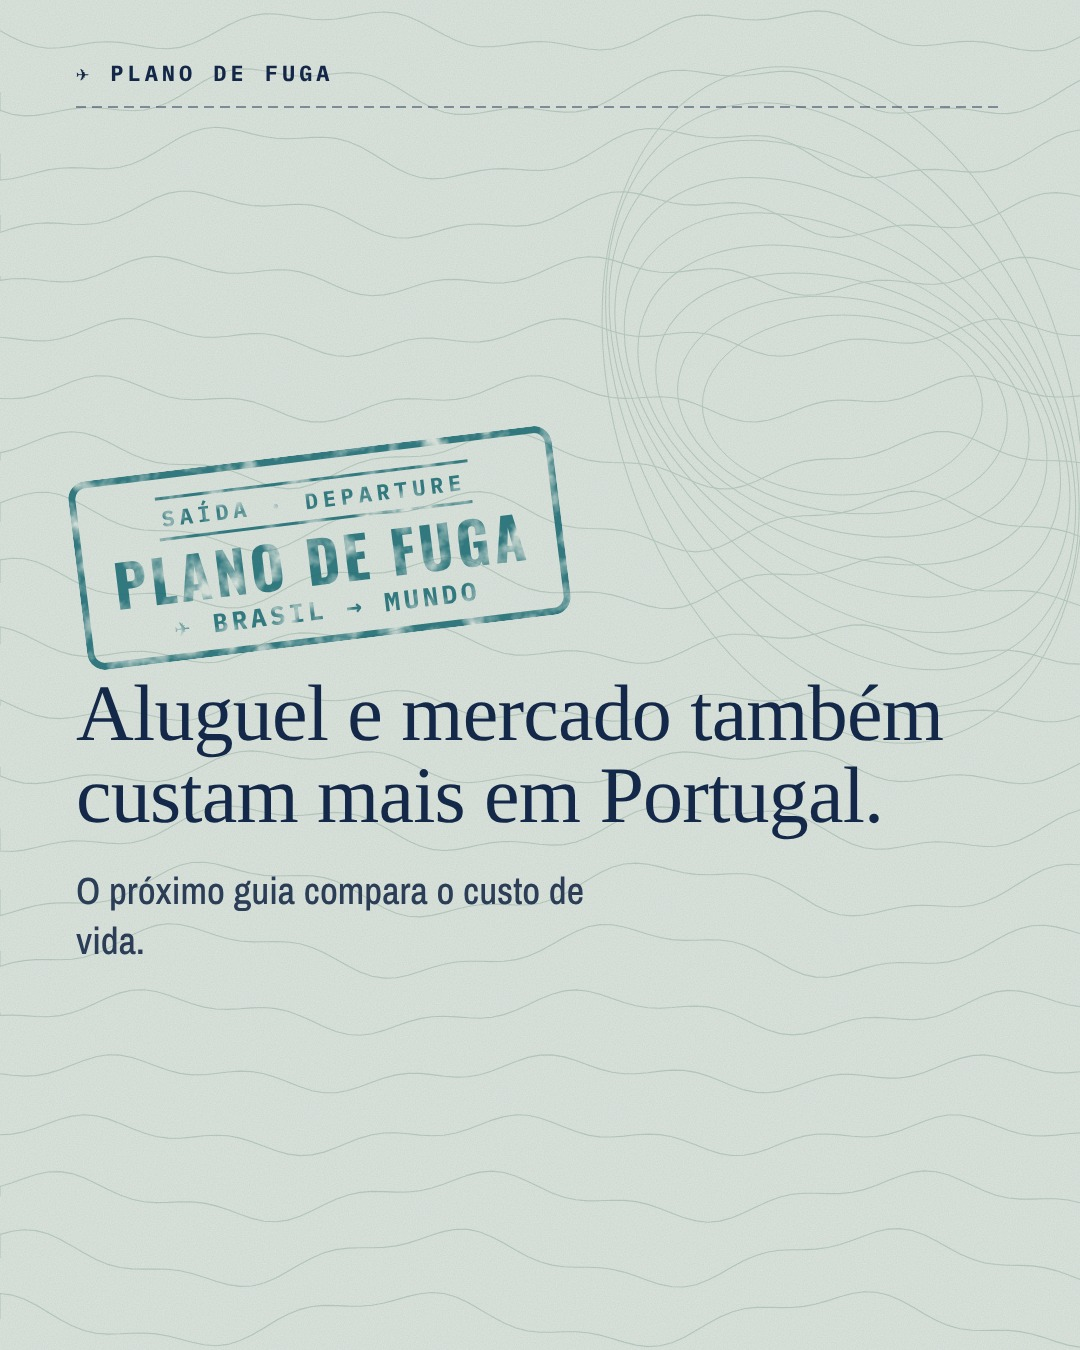
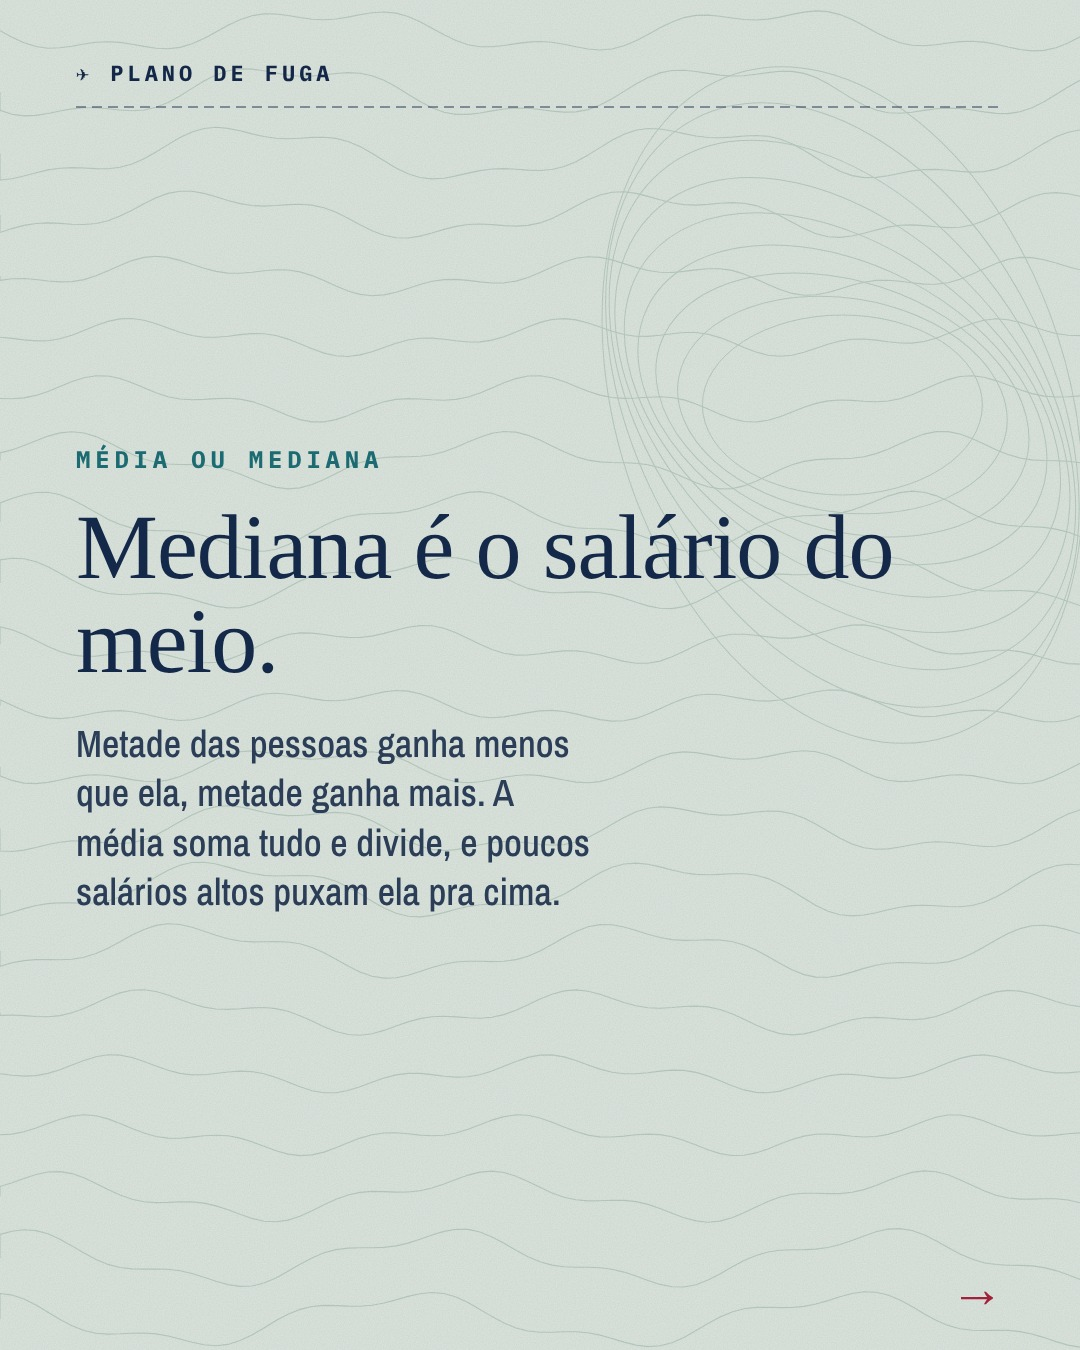
g-salario-minimo: média e mediana (rascunho, fora do manifest)
Claude-Session: https://claude.ai/code/session_01Pt3JXtGXq32R2QMqT7uFX3

Changed region(s): [[0.0611, 0.3111, 0.8861, 0.7156], [0.8861, 0.9333, 0.9167, 0.9644]]

diff --git a/content/content.py b/content/content.py
@@ -322,6 +322,9 @@ GUIA.append({"id": "g-salario-minimo", "publish_at": "2099-01-01T00:00:00Z", "st
   {"t": "page", "lab": "EM PORTUGAL", "h": "€ 920 por mês.", "s": "Valor de 2026 no continente. São 14 salários no ano.", "src": "Diário da República, 29/12/2025"},
   {"t": "page", "lab": "EM REAIS", "h": "R$ 5.180 por mês.", "s": "€ 920 × R$ 5,63, o euro de 20/10/2026. Dá 3,2 vezes o mínimo brasileiro.", "src": "Banco Central (PTAX)"},
   {"t": "page", "lab": "NO ANO", "h": "R$ 21.073 no Brasil. R$ 72.521 em Portugal.", "s": "13 e 14 salários, no câmbio de 20/10/2026."},
+  {"t": "page", "lab": "MÉDIA OU MEDIANA", "h": "Mediana é o salário do meio.", "s": "Metade das pessoas ganha menos que ela, metade ganha mais. A média soma tudo e divide, e poucos salários altos puxam ela pra cima."},
+  {"t": "page", "lab": "SALÁRIO NO BRASIL", "h": "Média: R$ 3.738 por mês.", "s": "O IBGE não publica a mediana. Mas 69% dos trabalhadores ganham até R$ 3.242, então a mediana fica abaixo disso.", "src": "IBGE, 2º tri 2026 · 4intelligence/PNAD"},
+  {"t": "page", "lab": "SALÁRIO EM PORTUGAL", "h": "Média: € 1.436 por mês.", "s": "São R$ 8.085, sem os subsídios de férias e Natal. A mediana mais recente do INE é de 2021: € 996 no setor privado.", "src": "INE, junho de 2026 e 2021"},
   {"t": "cta", "h": "Aluguel e mercado também custam mais em Portugal.", "s": "O próximo guia compara o custo de vida."},
  ],
  "caption": ""})
